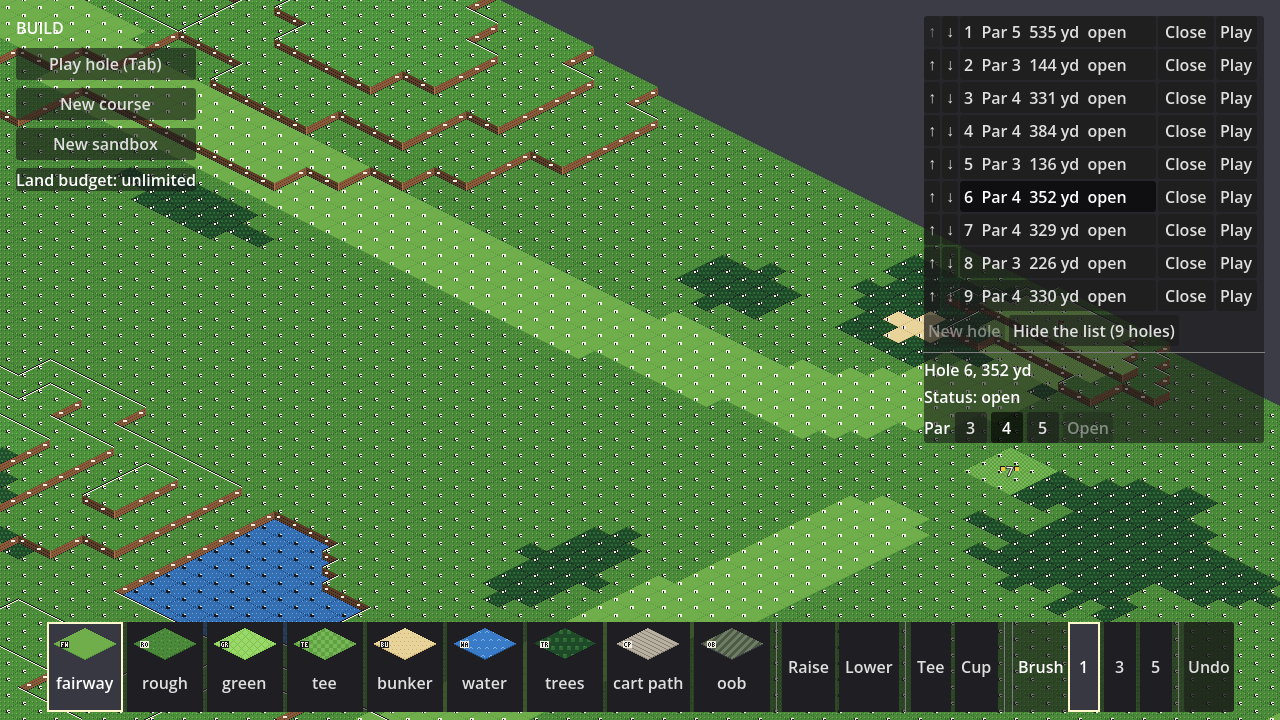
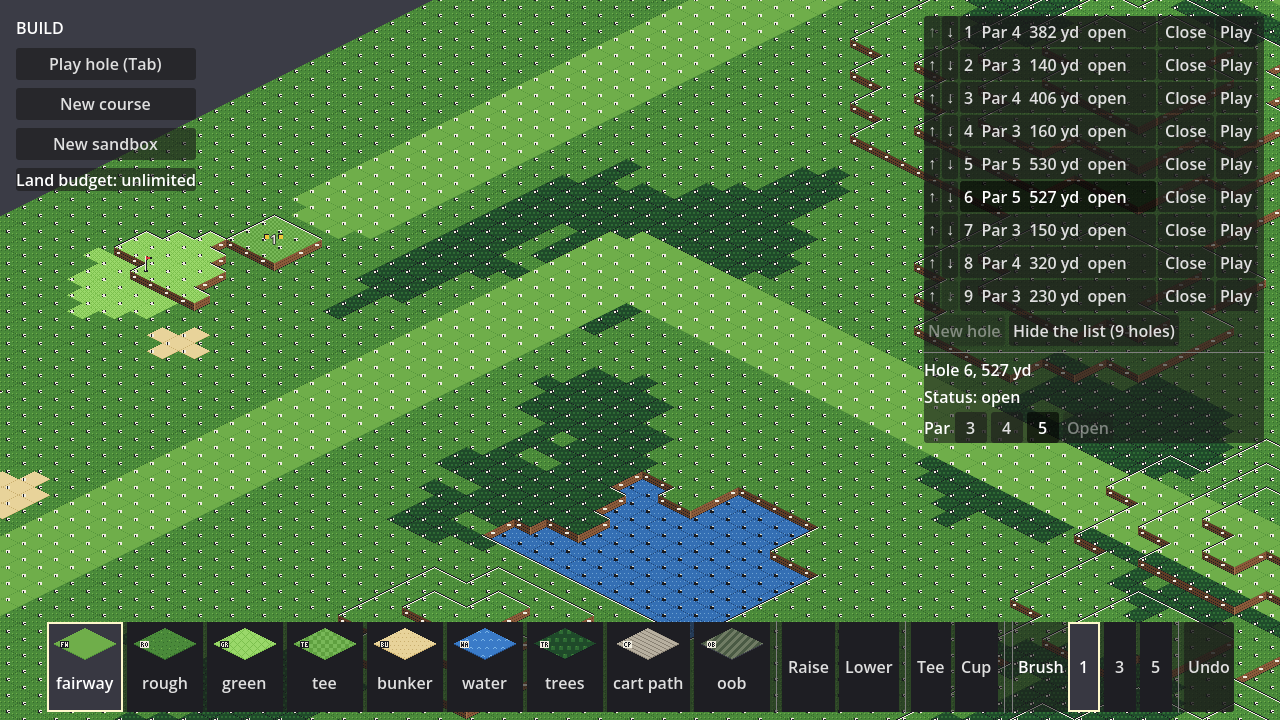
fix: E3-S50 make the playtest nine's doglegs read

diff --git a/docs/BACKLOG.md b/docs/BACKLOG.md
@@ -886,6 +886,7 @@ Planning notes (E2-S19, from the E2 review; `/next-epic` read these on 2026-11-0
   - Test: `tests/test_playtest_nine.gd`: nine open holes, every rule passes, the dogleg count, each green's tile count and height range, and the file round-trips through CourseSave.
   - Touches: `tests/fixtures/`, `courses/`, `scripts/`
   - Done 2026-11-06: `PlaytestNine` (`tests/fixtures/playtest_nine.gd`) builds the nine on land seed 7 through CourseBuilder (heights eased to the land's slope rule round each shaped green, tee and pond, then surfaces, then tees, cups and pars, then every hole opened); `courses/playtest_nine.json` ("Playtest Nine") is it saved, par 34, 2,767 yd: 1 par 5 535 straight down the east edge; 2 par 3 144 over a pond; 3 par 4 331 along the south hill; 4 par 4 dogleg right 384 round the corner (311 straight), water inside the corner; 5 par 3 136 up to a hilltop green; 6 par 4 dogleg left 352 (333 straight) to a green in the trees; 7 par 4 dogleg left 329 (308 straight); 8 par 3 226 down off the big hill to a green beside a pond; 9 par 4 330. Greens 33 to 57 tiles, every one tiered or sloped in one-step contours that rise away from the camera so their risers show, holes 1, 3, 6 and 8 two steps. `scripts/play_course.gd -- playtest` opens the file (`--rebuild` or `--save-only` rebuilds it), `tests/test_playtest_nine.gd` keeps the file equal to the fixture; screenshots `docs/decisions/e3-s50-green-1.png` to `-9.png` at 1x, `e3-s50-dogleg-4/6/7.png` at 0.5x and `e3-s50-course.png` (`PLAYTEST_SHOT=green:<n> scripts/screenshot.sh tests/fixtures/playtest_nine_shot.tscn`).
+  - Reworked 2026-11-06 (hand playtest: "i don't see any doglegs when i start it"; the old doglegs passed D47 but turned shallow, wide corners, fairways ran into each other's, and the game opened on the straight par 5): rerouted round the map, par 34, 2,845 yd, four doglegs of about 90 degrees with legs along the tile axes (a straight leg of about 240 yd to the corner, then a separate second leg; turns 81 to 86 degrees at D47's turn) and the corner's inside blocked: 1 par 4 dogleg right 382 (294 straight) up the west edge then along the hill that fills its corner, with trees; 2 par 3 140 off the hill; 3 par 4 dogleg right 406 (312 straight), a pond and trees in the corner; 4 par 3 160 up the east hill; 5 par 5 dogleg right 530 west between two ponds, one inside the corner, then north up the hill to a green with a pond behind it; 6 par 5 dogleg left 527 west through the trees, then south past the pond inside the corner; 7 par 3 150 to a green by a pond; 8 par 4 320 straight over the south hill's crest; 9 par 3 230 up the west edge over a pond to a green beside hole 1's tee. Fairways 5 wide (6 on hole 8), every hole's at least 6 tiles from every other's (`test_fairways_are_separate` holds 3). Hole 1 opens the game at 0.175x (no dogleg of 59 tiles straight fits the free view at 0.5x), its corner pointing up the screen clear of the HUD. The fixture fills the land pond across hole 1's first leg (`FILLS`). Tests add: at least four doglegs, hole 1 one of them, each turning at least 50 degrees, and fairway separation. Screenshots redone: `e3-s50-open.png` (the opening frame), `e3-s50-course.png` (`PLAYTEST_SHOT=course`, list collapsed), `e3-s50-dogleg-1/3/5/6.png` at 0.5x (4 and 7 removed) and `e3-s50-green-1.png` to `-9.png`; greens 1, 3 and 7 two steps.
 - [x] E3-S51 Make putts that roll at the cup drop at a fair rate. A putt struck at the right pace drops more often than it rolls over.
   - Note: (found in the E3-S30 hand playtest) the user's putts roll over or past the cup. `cup_radius` 0.25 yd and `cup_capture_speed` 2.0 yd/s capture a putt finishing up to about 1.3 yd past on a flat green, but the bar maps 1 to 18 yd/s across it, so 1% of the bar is 0.17 yd/s and a 5 yd putt's pace window is a few percent of the bar.
   - Accept: a putting target is added to docs/design.md Balance targets (a human-like click error, `power_sigma` and `accuracy_sigma` set from a skill-7 guest's D40 putt sigmas): made from 1 yd at least 90%, 3 yd 55 to 75%, 8 yd 15 to 30%, on a flat green and on a one-step contour, with three-putts from 8 yd under 15%; `/balance putting` (a new `--table putting` in `scripts/sim.gd`) measures it, and the tune (capture speed, capture radius, the putter's speed range or a distance-scaled bar, whichever moves least) meets it. Any change to putting numbers reruns `/balance reactions` and E3-S24's scoring edges and keeps them in target.
